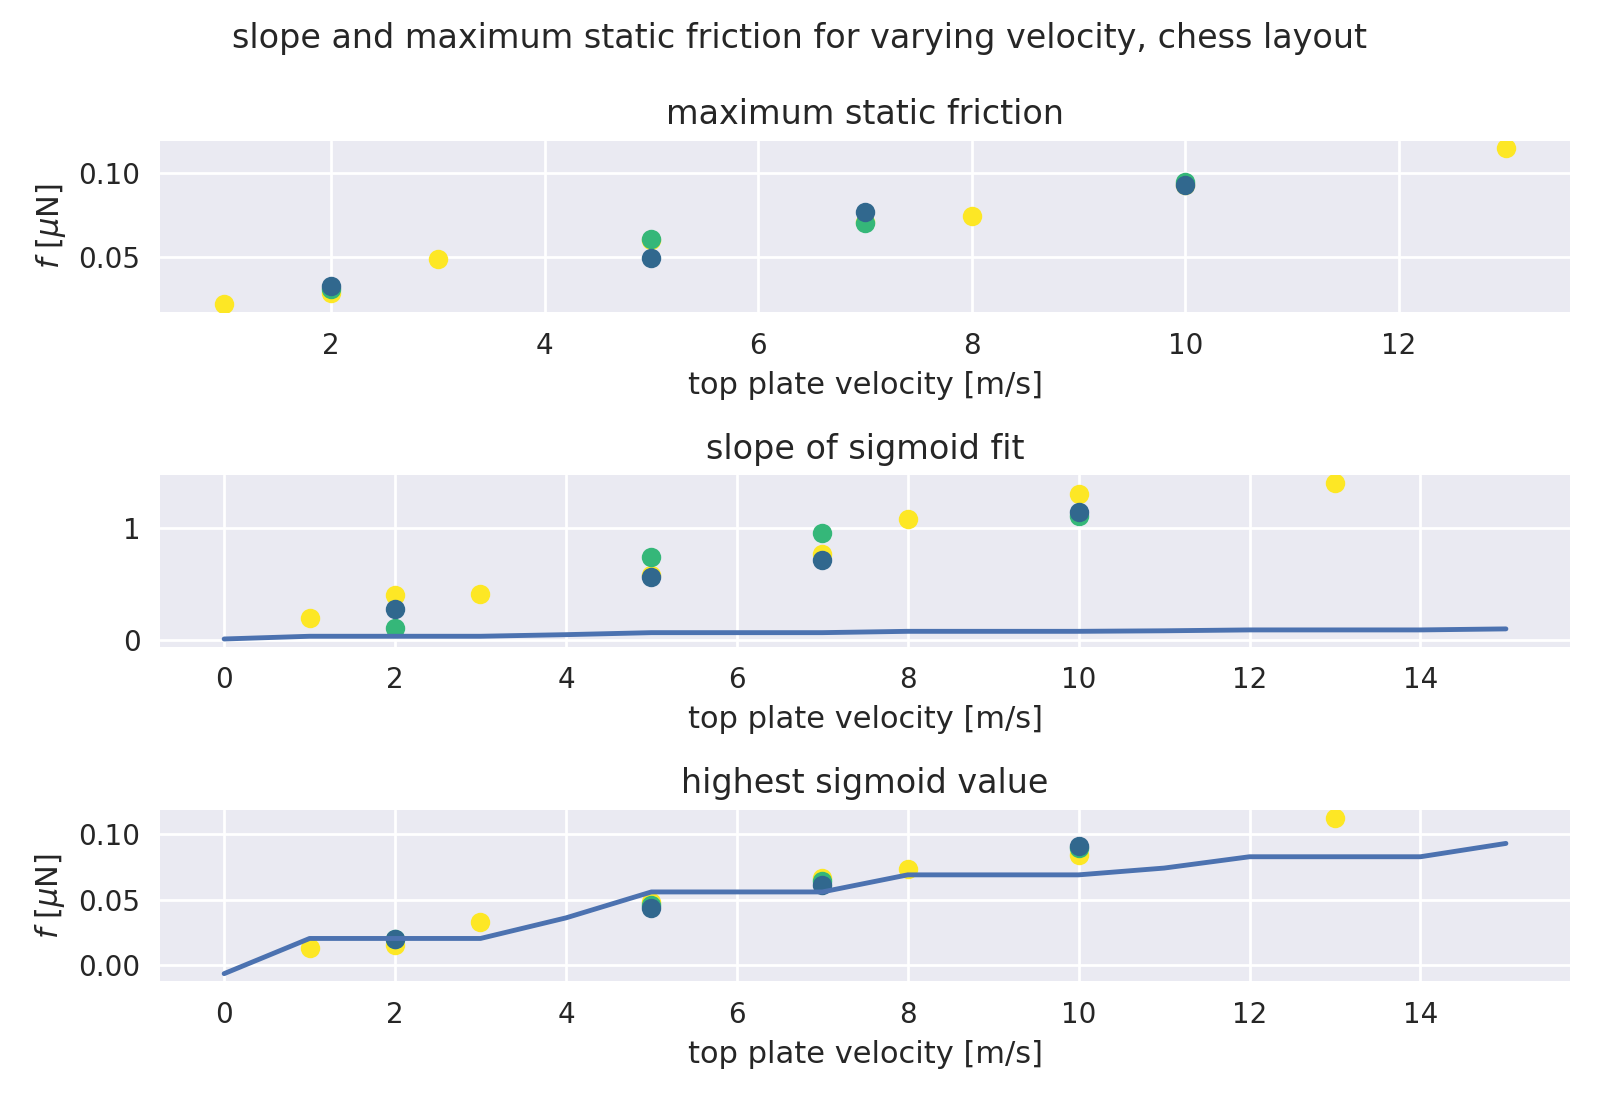
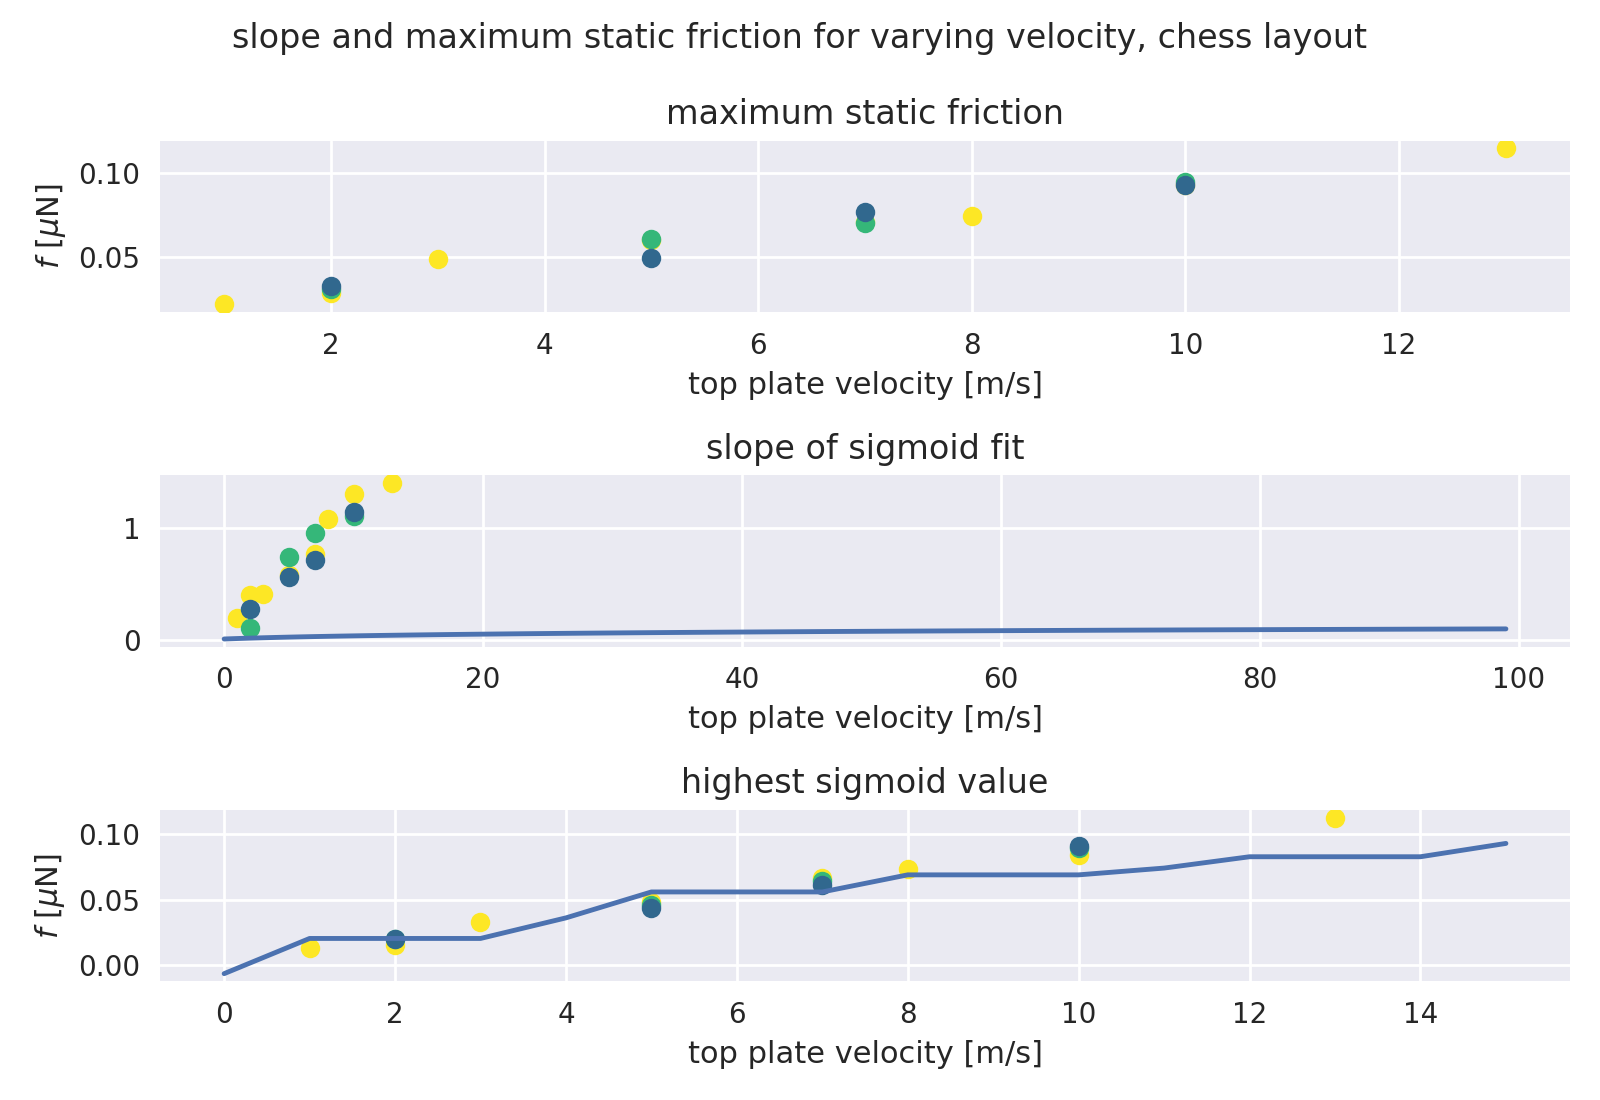
logfit doesn't work very wll

diff --git a/python/plot/plot_vary_speed.py b/python/plot/plot_vary_speed.py
@@ -8,6 +8,7 @@ import matplotlib.pyplot as plt
 from multiline import multiline
 from matplotlib import style
 from plot_utils import sigmoid, rip_norm, test_rip_norm, fit_sigmoid
+
 plt.style.use('seaborn')
 
 from plot_load_curves import load_displacement, load_rise, load_load_curves, load_max_static
@@ -44,14 +45,21 @@ def load_vs_normal_force():
     #axs1 is load curves over time
     fig, axs = plt.subplots(2,2, figsize = (12,12))
     #axs2 is max static and rise
-    fig2, axs2 = plt.subplots(2)
+    fig2, axs2 = plt.subplots(3)
+    fig3, axs3 = plt.subplots() #fake fig for sigmax
     axs2 = axs2.ravel()
     axs = axs.ravel()
-    varyspeed = {2:(55910,60930,14424),5:(72005,76229,37333), 7:(21702,77727,96687), 10:(56649,11605,41397)}
+    #varyspeed = {2:(55910,60930,14424),5:(72005,76229,37333), 7:(21702,77727,96687), 10:(56649,11605,41397)}
+    varyspeed_alt = {1: (66526), 2:(55910,60930,14424), 3:(90254), 5:(72005,76229,37333), 7:(21702,77727,96687), 
+                     8:(48242), 10:(56649,11605,41397), 13: (63868)}
 
 
-    c = plt.cm.viridis((3 - np.arange(len(varyspeed)))/(3 - 0 + 0.01))
-    for i, (vel, seed) in enumerate(varyspeed.items()):
+    c = plt.cm.viridis((3 - np.arange(len(varyspeed_alt)))/(3 - 0 + 0.01))
+    
+    ms_vels = []
+    sigmax_vels = []
+    vels = []
+    for i, (vel, seed) in enumerate(varyspeed_alt.items()):
 
         load_curves_all, load_curves_mean = load_load_curves(temp, _vel, force, asperities, orientation,
                                                         grid, template_lc, template_ms, 0, seed, False)
@@ -64,12 +72,16 @@ def load_vs_normal_force():
                                                         grid, template_r, 0, seed, False)
 
 
-        
+        _sigmax_vels = []
         for j,curve in enumerate(load_curves_all):
-            axs[i].plot(curve[:,0], curve[:,1], alpha = 0.4, c=c[j])
+        #    axs[i].plot(curve[:,0], curve[:,1], alpha = 0.4, c=c[j])
+            axs2[2].plot(vel, fit_sigmoid(curve, fig3, axs3), 'o', c=c[j])
+            sigmax_vels.append(fit_sigmoid(curve, fig3, axs3))
+            vels.append(vel)
         for j, max_static in enumerate(max_static_all):
-            axs[i].plot(max_static[0], max_static[1], 'bo')
+        #    axs[i].plot(max_static[0], max_static[1], 'bo')
             axs2[0].plot(vel, max_static[1], 'o', c=c[j])
+            ms_vels.append(max_static[1])
         #axs2[0].plot(normforce, max_static_mean[1], '*', label='mean')
         for j,rise in enumerate(rise_all):
             axs2[1].plot(vel, rise, 'o', c = c[j])
@@ -77,28 +89,34 @@ def load_vs_normal_force():
         axs2[0].legend()
 
     
-        axs[i].plot(load_curves_mean[0,:,0], load_curves_mean[0,:,1], label = f'average')
-        axs[i].legend()
-        axs[i].set_xlabel(r"$t_p$ [ns]")
-        axs[i].set_ylabel(r"$f$ [$\mu$N]")
-        axs[i].set_title(f'velocity {vel} [m/s]')
-        axs[i].set_ylim([-0.02, 0.14])
+        #axs[i].plot(load_curves_mean[0,:,0], load_curves_mean[0,:,1], label = f'average')
+        #axs[i].legend()
+        #axs[i].set_xlabel(r"$t_p$ [ns]")
+        #axs[i].set_ylabel(r"$f$ [$\mu$N]")
+        #axs[i].set_title(f'velocity {vel} [m/s]')
+        #axs[i].set_ylim([-0.02, 0.14])
 
+    sigmax_logfit = np.polyfit(np.log(vels), sigmax_vels, 1)
+    axs2[2].plot(sigmax_logfit[0] * np.log(vels) + sigmax_logfit[1], label='logfit')
+
+    ms_logfit = np.polyfit(np.log(vels), ms_vels, 1)
+    axs2[1].plot(ms_logfit[0] * np.log(np.linspace(1, vels[-1], 100)) + ms_logfit[1], label='logfit')
     fig.suptitle(f"Load curves for the chess system with increasing top plate velocity")
     fig.tight_layout(pad=1.8)
     
     outname = 'vary_vel.png'
 
     print(f'saved fig to {fig_dir + outname}')
-    fig.savefig(fig_dir + outname, dpi = 200)
+    #fig.savefig(fig_dir + outname, dpi = 200)
 
-    axs2[0].set_title('maximum static')
+    axs2[0].set_title('maximum static friction')
     axs2[1].set_title('slope of sigmoid fit')
     axs2[0].set_xlabel('top plate velocity [m/s]')
     axs2[1].set_xlabel('top plate velocity [m/s]')
     axs2[0].set_ylabel(r"$f$ [$\mu$N]")
-    axs2[1].set_ylabel(r"$f$ [$\mu$N]")
-
+    axs2[2].set_xlabel('top plate velocity [m/s]')
+    axs2[2].set_ylabel(r"$f$ [$\mu$N]")
+    axs2[2].set_title('highest sigmoid value')
 
     fig2.suptitle(f'slope and maximum static friction for varying velocity, chess layout')
     fig2.tight_layout()

diff --git a/python/ml/dataset_maker.py b/python/ml/dataset_maker.py
@@ -7,6 +7,58 @@ import json
 import re
 import numpy as np
 from glob import glob
+from scipy.optimize import curve_fit
+def sigmoid(x, L ,x0, k, b):
+    y = L / (1 + np.exp(-k*(x-x0))) + b
+    return (y)
+
+def fit_sigmoid(load_curve):
+    '''
+    https://docs.scipy.org/doc/scipy/reference/generated/scipy.optimize.curve_fit.html
+    https://stackoverflow.com/questions/55725139/fit-sigmoid-function-s-shape-curve-to-data-using-python
+    '''
+    time = load_curve[:,0]
+    fx = load_curve[:,1]
+
+    #fitting sigmoid to selected interval.
+    polfit_start_indx = (np.abs(time - 0.7)).argmin()
+    polfit_stop_indx = (np.abs(time - 1.3)).argmin()
+    #translation so it has same shape as load_curve
+    polfit_data = np.array((time[polfit_start_indx:polfit_stop_indx],
+                           fx[polfit_start_indx:polfit_stop_indx])).T
+
+
+    #curve fit doesn't like nan. removing theese for now
+    non_nan_mask = ~np.isnan(polfit_data[:,1])
+
+    #https://stackoverflow.com/questions/55725139/fit-sigmoid-function-s-shape-curve-to-data-using-python
+    time_nnan = polfit_data[non_nan_mask,0]
+    load_curve_nnan = polfit_data[non_nan_mask,1]
+    #this was [max(time_nnan), etc and worked.. website says ydata first
+    p0 = [max(time_nnan), np.median(time_nnan),1,min(load_curve_nnan)] # this is an mandatory initial guess
+
+
+    popt, pcov = curve_fit(sigmoid, time_nnan, load_curve_nnan,p0, method='dogbox')
+
+    #max_rise = np.max(np.gradient(sigmoid(time_nnan, *popt))) this gives wrong values. idk
+
+    #repeating selection and polyfit but this time fitting linear func to sigmoid midriff
+    midriff = np.array((popt[1] - 0.05, popt[1] + 0.05))
+
+    print(f'midriff ',midriff)
+    midriff_start_indx = (np.abs(time_nnan - midriff[0])).argmin()
+    midriff_stop_indx = (np.abs(time_nnan - midriff[1])).argmin()
+
+    print('midriff indices ', midriff_start_indx, midriff_stop_indx)
+    polfit_data2 = np.array((time_nnan[midriff_start_indx:midriff_stop_indx],
+                            load_curve_nnan[midriff_start_indx:midriff_stop_indx])).T
+
+
+    rise, intersect = np.polyfit(polfit_data2[:,0], polfit_data2[:,1], 1)
+
+    max_sig = sigmoid(time_nnan, *popt)[-1]
+
+    return max_sig
 
 def dataset_maker():
     temp = 2300
@@ -38,8 +90,11 @@ def dataset_maker():
     n = len(lc_files)
     print('len lc files: ', n)
     out_matrix = np.zeros((n, 4,4)) #4,4 matrix, 1 rise, 1 max static
-    out_y = np.zeros((n, 2))
+    out_y = np.zeros((n, 3))
     for i, lc_file in enumerate(lc_files): #this code now works with producition
+        print(lc_file)
+        if lc_file == '.':
+            continue
         try:
             matches = re.findall('\d+', lc_file)
         except:
@@ -51,10 +106,10 @@ def dataset_maker():
 
         rise_files = glob(template_r.format(temp, vel, force, asperities, orientation,initnum, grid[0], grid[1]))
         ms_files = glob(template_ms.format(temp, vel, force, asperities, orientation,initnum, grid[0], grid[1]))
-        load_curves = []
         rise = []
         ms = []
 
+        load_curves = np.loadtxt(lc_file)
         for rise_file in rise_files:
             rise.append(np.loadtxt(rise_file))
         for ms_file in ms_files:
@@ -71,12 +126,14 @@ def dataset_maker():
         else:
             rise = rise[0]
             ms = ms[0]
+        sigmax = fit_sigmoid(load_curves)
         
-    
+        
         out_matrix[i, :,:] = np.array(aux_dict['erratic'])
-        out_y[i,:]= np.array((rise,ms))
+        out_y[i,:]= np.array((rise,ms,sigmax))
     print(out_y)
     print(out_matrix)
+    print('shape y', np.shape(out_y))
     print('number of datasets: ', len(out_y))
     np.save( 'out_y.npy', out_y)
     np.save('out_matrix.npy', out_matrix)
@@ -117,5 +174,5 @@ def random_dataset():
 
 if __name__ == '__main__':
     dataset_maker()
-    random_dataset()
+    #random_dataset()
         

diff --git a/python/ml/apply_cnn.py b/python/ml/apply_cnn.py
@@ -250,8 +250,8 @@ class GridSearchCNN(GridSearch):
 def run_cnn_search(epochs, mode):
 
     padding = 1
-    X_CV, y_CV, X_test, y_test = utils.load_data(padding, random = True) #X_CV, y_CV, X_test, y_test
-    device = utils.get_device("cpu", verbose = True)
+    X_CV, y_CV, X_test, y_test = utils.load_data(padding, random = False) #X_CV, y_CV, X_test, y_test
+    device = utils.get_device("gpu", verbose = True)
 
 
     kernel_size_list = [2, 3, 4] #need to have a good look at the kernels, so they fit my system
@@ -290,7 +290,7 @@ def run_cnn_search(epochs, mode):
     results.insert(0, final_result)
 
     seed = np.random.randint(10000, 100000)
-    outname = f"CV_results/scores_cnn_{mode}_epochs{epochs}_pad{padding}_splits{splits}_{seed}_random.npz"
+    outname = f"CV_results/scores_cnn_{mode}_epochs{epochs}_pad{padding}_splits{splits}_{seed}_sigmax.npz"
     if os.path.exists(outname):
         print(f"WARNING: {outname} exists. Exiting..")
         return

diff --git a/python/ml/apply_dnn.py b/python/ml/apply_dnn.py
@@ -125,7 +125,7 @@ def run_dnn_search(epochs, mode):
 
     padding = 1
     X_CV, y_CV, X_test, y_test = utils.load_data(padding, method = 'dnn', random = False) #X_CV, y_CV, X_test, y_test
-    device = utils.get_device("cpu", verbose = True)
+    device = utils.get_device("gpu", verbose = True)
 
     n_nodes_list = 2**np.arange(2, 9) # 4 - 1024 nodes
     n_layers_list = 2**np.arange(2, 9) # 2 - 128 layers
@@ -161,7 +161,7 @@ def run_dnn_search(epochs, mode):
     results.insert(0, final_result)
 
     seed = np.random.randint(10000, 100000)
-    outname = f"CV_results/scores_dnn_{mode}_epochs{epochs}_pad{padding}_splits{splits}_{seed}.npz"
+    outname = f"CV_results/scores_dnn_{mode}_epochs{epochs}_pad{padding}_splits{splits}_{seed}_sigmax.npz"
     if os.path.exists(outname):
         print(f"WARNING: {outname} exists. Exiting..")
         return

diff --git a/python/ml/utils.py b/python/ml/utils.py
@@ -192,12 +192,12 @@ def load_data(padding = 2, method = 'cnn', random = False):
     if random:
         X = np.load('rand_matrix.npy') 
         Y = np.load('rand_y.npy') 
-        Y = Y[:,0]
+        Y = Y[:,2]
 
     else:
         X = np.load('out_matrix.npy') 
         Y = np.load('out_y.npy') 
-        Y = Y[:,0]
+        Y = Y[:,2]
  
     #shuffle 
     indx = np.arange(0, X.shape[0]) 
